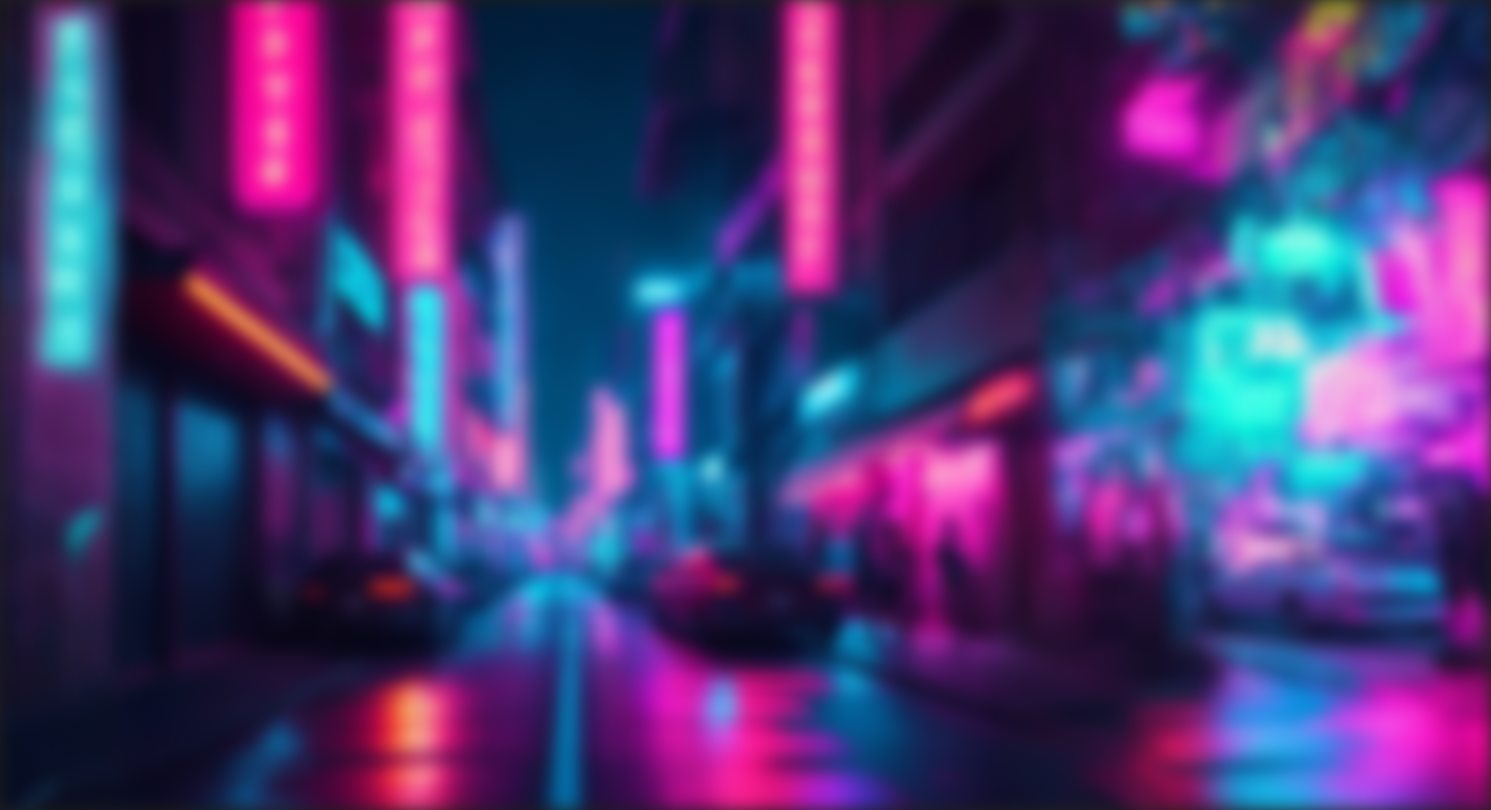
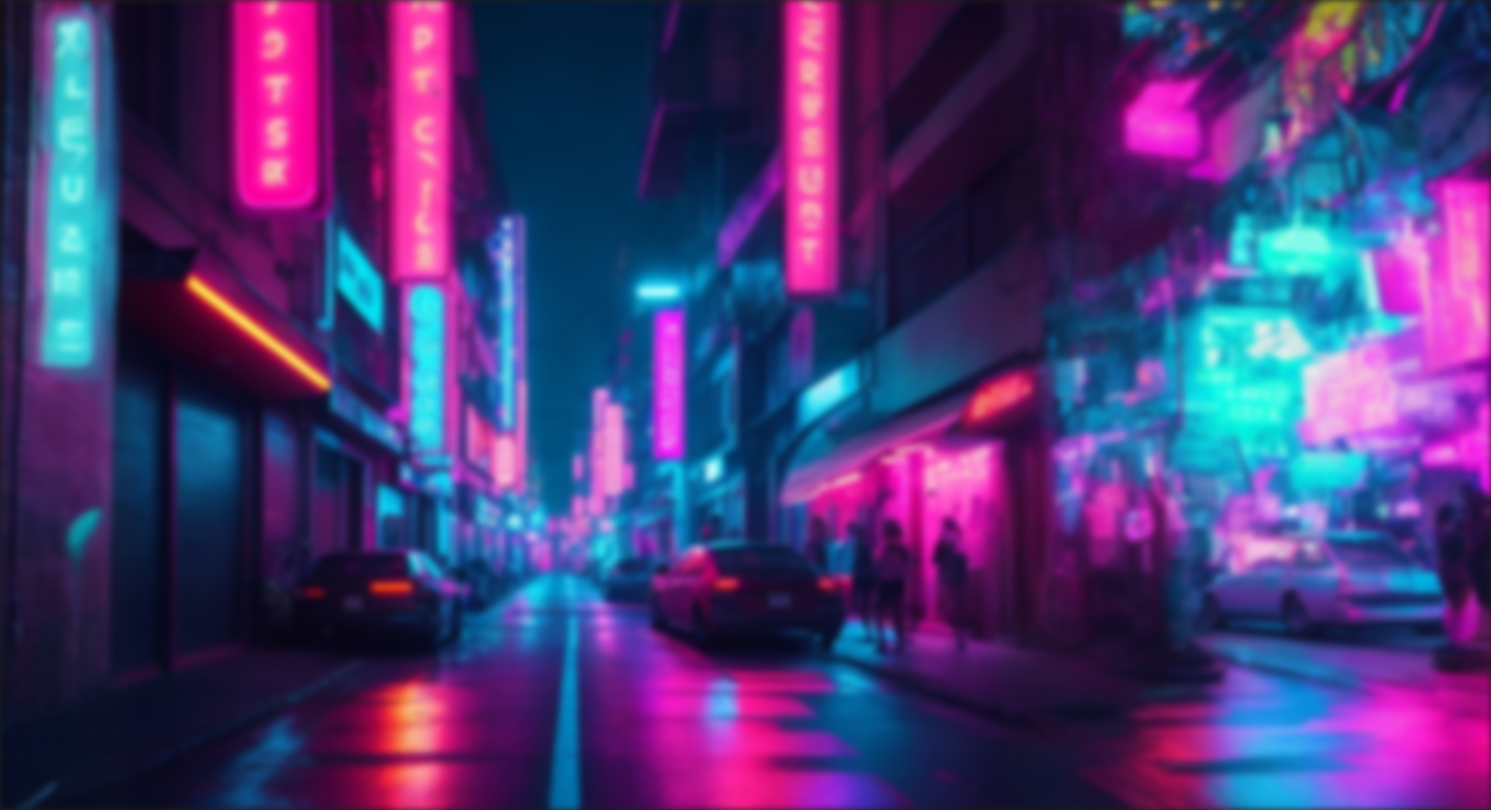
added: new images from Figma with style changes

diff --git a/src/pages/main/cards/index.scss b/src/pages/main/cards/index.scss
@@ -133,6 +133,12 @@
         margin-top: vpc(16);
         border-radius: vpc(20);
 
+        picture,
+        img {
+            pointer-events: none;
+            user-select: none;
+        }
+
         @include tablet-only {
             border-radius: vpc(16);
         }
@@ -157,6 +163,12 @@
     #{$p}__image {
         grid-column: 1 / -1;
         margin-left: vpc(-2);
+
+        picture,
+        img {
+            pointer-events: none;
+            user-select: none;
+        }
 
         @include tablet {
             margin-left: 0;
@@ -209,21 +221,21 @@
     #{$p}__girl {
         position: absolute;
         left: 50%;
-        bottom: vpc(-492);
+        bottom: vpc(-46);
         z-index: 1;
-        margin-left: vpc(-247);
-        width: vpc(520);
+        margin-left: vpc(-313);
+        width: vpc(624);
 
         @include tablet {
-            bottom: vpc(-438);
-            margin-left: vpc(-202);
-            width: vpc(426);
+            bottom: vpc(-72);
+            margin-left: vpc(-259);
+            width: vpc(518);
         }
 
         @include mobile {
-            bottom: vpc(-278);
-            margin-left: vpc(-129);
-            width: vpc(275);
+            bottom: 0;
+            margin-left: vpc(-152);
+            width: vpc(306);
         }
     }
 
